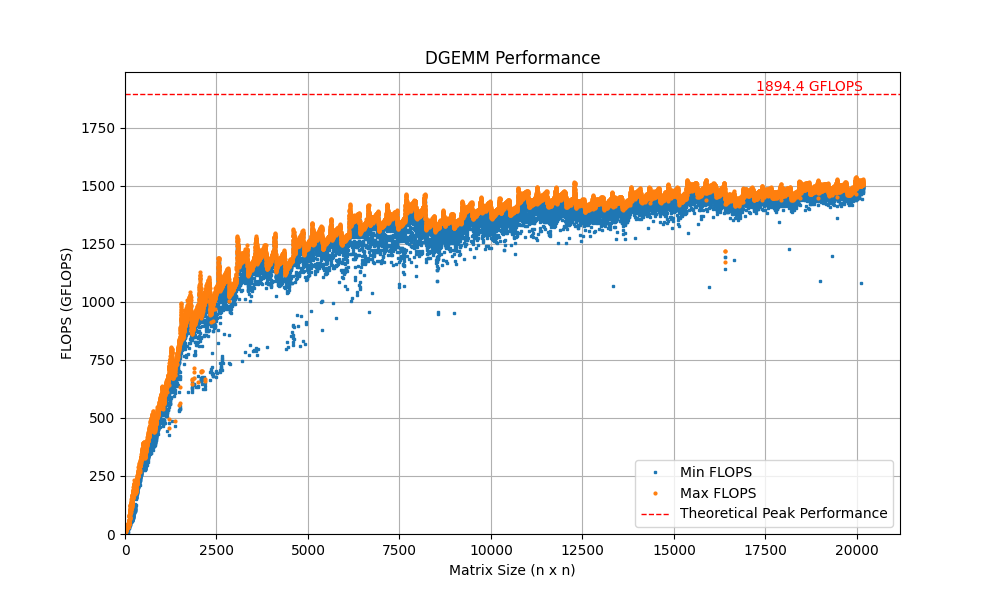
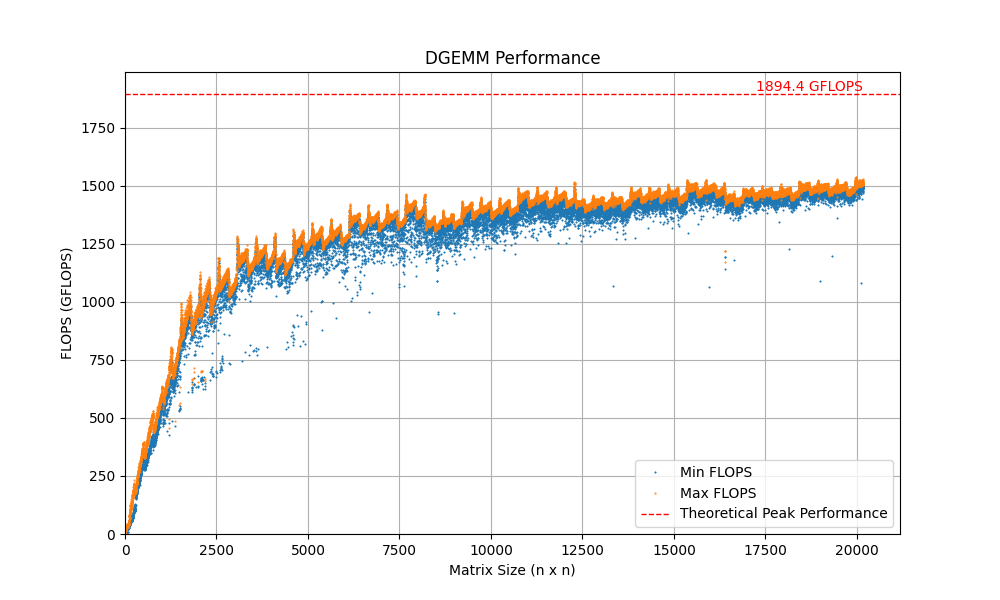
.

Changed region(s): [[0.124, 0.3, 0.868, 0.87], [0.713, 0.42, 0.744, 0.45]]

diff --git a/dgemm_benchmark/dgemm_benchmark_plot.py b/dgemm_benchmark/dgemm_benchmark_plot.py
@@ -13,8 +13,8 @@ df["minflops"] /= 1000
 
 # プロットの作成
 plt.figure(figsize=(10, 6))
-plt.plot(df["n"], df["minflops"], label="Min FLOPS", marker='s', markersize=2, linestyle='None')
-plt.plot(df["n"], df["maxflops"], label="Max FLOPS", marker='o', markersize=2, linestyle='None')
+plt.plot(df["n"], df["minflops"], label="Min FLOPS", marker='s', markersize=0.5, linestyle='None')
+plt.plot(df["n"], df["maxflops"], label="Max FLOPS", marker='o', markersize=0.5, linestyle='None')
 
 # Theoretical Peak Performance
 peak_performance = 1894.4
